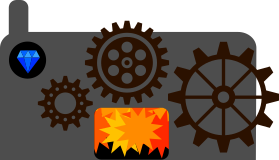
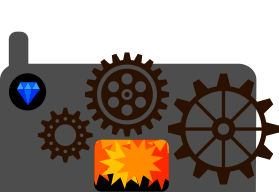
Create blocking spaces and clear soil behind gem bank; Implement entity heirarchy in back-end

diff --git a/back/src/entities/gem_bank.ts b/back/src/entities/gem_bank.ts
@@ -5,12 +5,12 @@ import { FreeModeProperties,
 import { SpatialSystem } from "../spatial_system";
 import { ComponentType } from "../common/component_types";
 import { CSpatial } from "../spatial_component";
-import { DEFAULT_GRID_MODE_PROPS } from "../grid_mode_properties";
+import { DEFAULT_GRID_MODE_PROPS,
+         GridModeProperties } from "../grid_mode_properties";
 import { EntityType } from "../common/game_objects";
 import { CBehaviour, EventHandlerFn } from "../common/behaviour_system";
 import { GameEventType, EAgentEnterCell } from "../common/event";
 import { BLOCK_SZ } from "../common/constants";
-import { SpatialMode } from "../common/spatial_packet";
 import { CCollector } from "../inventory_system";
 
 export function constructGemBank(em: EntityManager, desc: any): EntityId {
@@ -29,30 +29,55 @@ export function constructGemBank(em: EntityManager, desc: any): EntityId {
                                    DEFAULT_GRID_MODE_PROPS,
                                    freeModeProps);
 
-  spatialComp.currentMode = SpatialMode.FREE_MODE;
-
   em.addEntity(id, EntityType.GEM_BANK, desc, [ spatialComp ]);
 
   spatialSys.positionEntity(id, desc.x, desc.y);
 
-  const entranceX = desc.x;
-  const entranceY = desc.y + BLOCK_SZ * 2.5;
-  const exitX = entranceX + BLOCK_SZ * 4;
-  const exitY = entranceY;
-
-  const exitId = constructExit(em, exitX, exitY);
-  const entranceId = constructEntrance(em, exitId, entranceX, entranceY);
-
-  em.addChildToEntity(id, entranceId);
-  em.addChildToEntity(id, exitId);
+  const exitId = constructExit(em, id);
+  constructEntrance(em, id, exitId);
+  constructBlockingSpaces(em, id);
 
   return id;
 }
 
+function constructBlockingSpaces(em: EntityManager, parentId: EntityId) {
+  const coords = [
+    [ 0, 1 ], [ 1, 1 ], [ 2, 1 ], [ 3, 1 ],
+    [ 0, 2 ], [ 1, 2 ], [ 2, 2 ], [ 3, 2 ],
+              [ 1, 3 ], [ 2, 3 ], [ 3, 3 ]
+  ];
+
+  for (const [ i, j ] of coords) {
+    const id = getNextEntityId();
+
+    const gridModeProps: GridModeProperties = {
+      solid: true,
+      blocking: true,
+      heavy: false,
+      movable: false,
+      stackable: false,
+      squashable: false,
+      isAgent: false
+    };
+
+    const spatialSys = <SpatialSystem>em.getSystem(ComponentType.SPATIAL);
+
+    const spatialComp = new CSpatial(id,
+                                     true,
+                                     spatialSys.grid,
+                                     gridModeProps,
+                                     DEFAULT_FREE_MODE_PROPS);
+
+    em.addEntity(id, EntityType.OTHER, {}, [ spatialComp ]);
+    em.addChildToEntity(parentId, id);
+
+    spatialComp.setStaticPos(i * BLOCK_SZ, j * BLOCK_SZ);
+  }
+}
+
 function constructEntrance(em: EntityManager,
-                           exitId: EntityId,
-                           x: number,
-                           y: number) {
+                           parentId: EntityId,
+                           exitId: EntityId) {
   const id = getNextEntityId();
 
   const spatialSys = <SpatialSystem>em.getSystem(ComponentType.SPATIAL);
@@ -70,13 +95,12 @@ function constructEntrance(em: EntityManager,
   const behaviourComp = new CBehaviour(id, targetedEvents);
 
   em.addEntity(id, EntityType.OTHER, {}, [ spatialComp, behaviourComp ]);
+  em.addChildToEntity(parentId, id);
 
-  spatialSys.positionEntity(id, x, y);
-
-  return id;
+  spatialSys.positionEntity(id, 0, BLOCK_SZ * 3);
 }
 
-function constructExit(em: EntityManager, x: number, y: number) {
+function constructExit(em: EntityManager, parentId: EntityId) {
   const id = getNextEntityId();
 
   const spatialSys = <SpatialSystem>em.getSystem(ComponentType.SPATIAL);
@@ -88,8 +112,9 @@ function constructExit(em: EntityManager, x: number, y: number) {
                                    DEFAULT_FREE_MODE_PROPS);
 
   em.addEntity(id, EntityType.OTHER, {}, [ spatialComp ]);
+  em.addChildToEntity(parentId, id);
 
-  spatialSys.positionEntity(id, x, y);
+  spatialSys.positionEntity(id, BLOCK_SZ * 4, BLOCK_SZ * 3);
 
   return id;
 }

diff --git a/back/src/grid_mode_subcomponent.ts b/back/src/grid_mode_subcomponent.ts
@@ -25,7 +25,7 @@ function vectorToDirection(x: number, y: number): Direction {
   throw new GameError(`Vector ${x}, ${y} is not a valid direction`);
 }
 
-export class GridModeSubcomponent implements SpatialSubcomponent {
+export class GridModeSubcomponent extends SpatialSubcomponent {
   falling = false;
 
   private _entityId: EntityId;
@@ -40,12 +40,14 @@ export class GridModeSubcomponent implements SpatialSubcomponent {
   constructor(entityId: EntityId,
               grid: Grid,
               properties: GridModeProperties) {
+    super(entityId);
+
     this._entityId = entityId;
     this._grid = grid;
     this._properties = properties;
   }
 
-  get entityId() {
+  id() {
     return this._entityId;
   }
 
@@ -69,6 +71,7 @@ export class GridModeSubcomponent implements SpatialSubcomponent {
     return now < this._lockedUntil;
   }
 
+  // x and y are absolute
   setGridPos(x: number, y: number, noModeTransition = false): boolean {
     if (this.moving()) {
       return false;
@@ -104,8 +107,10 @@ export class GridModeSubcomponent implements SpatialSubcomponent {
       return false;
     }
 
-    const gridX = this._grid.toGridX(x);
-    const gridY = this._grid.toGridY(y);
+    const [ xAbs, yAbs ] = this._toAbsPos(x, y);
+
+    const gridX = this._grid.toGridX(xAbs);
+    const gridY = this._grid.toGridY(yAbs);
     this.setGridPos(gridX, gridY);
 
     return true;
@@ -180,5 +185,12 @@ export class GridModeSubcomponent implements SpatialSubcomponent {
 
   get isAgent() {
     return this._properties.isAgent;
+  }
+
+  private _toAbsPos(x: number, y: number): [ number, number ] {
+    if (this.parent) {
+      return [ this.parent.x_abs() + x, this.parent.y_abs() + y ];
+    }
+    return [ x, y ];
   }
 }

diff --git a/back/src/spatial_subcomponent.ts b/back/src/spatial_subcomponent.ts
@@ -1,4 +1,52 @@
+import { EntityId } from "./common/system";
+
 export abstract class SpatialSubcomponent {
+  private _id: EntityId;
+  private _parent?: SpatialSubcomponent;
+  private _children = new Map<EntityId, SpatialSubcomponent>();
+
+  constructor(id: EntityId) {
+    this._id = id;
+  }
+
+  get entityId() {
+    return this._id;
+  }
+
+  addChild(child: SpatialSubcomponent) {
+    if (child._parent) {
+      child._parent.removeChild(child.entityId);
+    }
+    this._children.set(child.entityId, child);
+    child._parent = this;
+  }
+
+  removeChild(id: EntityId) {
+    const child = this._children.get(id);
+    if (child) {
+      child._parent = undefined;
+      this._children.delete(id);
+    }
+  }
+
+  get parent() {
+    return this._parent;
+  }
+
+  x_abs(): number {
+    if (this._parent) {
+      return this._parent.x_abs() + this.x();
+    }
+    return this.x();
+  }
+
+  y_abs(): number {
+    if (this._parent) {
+      return this._parent.y_abs() + this.y();
+    }
+    return this.y();
+  }
+
   abstract x(): number;
   abstract y(): number;
   // Set position without changing destination or speed

diff --git a/back/src/map_loader.ts b/back/src/map_loader.ts
@@ -91,6 +91,18 @@ export class MapLoader {
     const numRocks = 20;
     const numGems = 10;
 
+    entities.push({
+      type: EntityType.GEM_BANK,
+      data: {
+        x: BLOCK_SZ * 22,
+        y: BLOCK_SZ * 10
+      }
+    });
+    const gemBankSpan = new Span2d();
+    gemBankSpan.addHorizontalSpan(11, new Span(22, 25));
+    gemBankSpan.addHorizontalSpan(12, new Span(22, 25));
+    gemBankSpan.addHorizontalSpan(13, new Span(22, 26));
+
     const trophyCoords = { x: 5, y: 10 };
 
     let coords: [number, number][] = [];
@@ -103,6 +115,9 @@ export class MapLoader {
           continue;
         }
         if (gr.contains(c, r)) {
+          continue;
+        }
+        if (gemBankSpan.contains(c, r)) {
           continue;
         }
         coords.push([c * BLOCK_SZ, r * BLOCK_SZ]);
@@ -184,14 +199,6 @@ export class MapLoader {
       data: {
         x: trophyCoords.x * BLOCK_SZ,
         y: trophyCoords.y * BLOCK_SZ
-      }
-    });
-
-    entities.push({
-      type: EntityType.GEM_BANK,
-      data: {
-        x: BLOCK_SZ * 22,
-        y: BLOCK_SZ * 10.5
       }
     });
 

diff --git a/common/behaviour_system.ts b/common/behaviour_system.ts
@@ -25,6 +25,10 @@ export class CBehaviour extends Component {
     this._broadcastHandlers = broadcastHandlers;
   }
 
+  addChildToEntity(id: EntityId, childId: EntityId) {}
+
+  removeChildFromEntity(id: EntityId, childId: EntityId) {}
+
   handleBroadcastEvent(event: GameEvent) {
     const handler = this._broadcastHandlers.get(event.type);
     if (!handler) {
@@ -69,6 +73,10 @@ export class BehaviourSystem implements ServerSystem, ClientSystem {
     this._targetedEvents = new Map<GameEventType, Set<EntityId>>();
     this._broadcastEvents = new Map<GameEventType, Set<EntityId>>();
   }
+
+  addChildToEntity(id: EntityId, childId: EntityId) {}
+
+  removeChildFromEntity(id: EntityId, childId: EntityId) {}
 
   updateComponent(packet: ComponentPacket) {}
 

diff --git a/back/src/spatial_system.ts b/back/src/spatial_system.ts
@@ -64,6 +64,21 @@ export class SpatialSystem implements ServerSystem {
     return packets;
   }
 
+  addChildToEntity(id: EntityId, childId: EntityId) {
+    const parent = this.getComponent(id);
+    const child = this.getComponent(childId);
+
+    parent.gridMode.addChild(child.gridMode);
+    parent.freeMode.addChild(child.freeMode);
+  }
+
+  removeChildFromEntity(id: EntityId, childId: EntityId) {
+    const parent = this.getComponent(id);
+
+    parent.gridMode.removeChild(childId);
+    parent.freeMode.removeChild(childId);
+  }
+
   moveAgent(id: EntityId, direction: Direction): boolean {
     const c = this.getComponent(id);
     if (c.currentMode == SpatialMode.GRID_MODE) {

diff --git a/back/src/free_mode_subcomponent.ts b/back/src/free_mode_subcomponent.ts
@@ -11,7 +11,7 @@ function notEqual(a: number, b: number) {
   return Math.abs(a - b) >= 0.1;
 }
 
-export class FreeModeSubcomponent implements SpatialSubcomponent {
+export class FreeModeSubcomponent extends SpatialSubcomponent {
   private _entityId: EntityId;
   private _properties: FreeModeProperties;
   private _body: Body;
@@ -25,6 +25,8 @@ export class FreeModeSubcomponent implements SpatialSubcomponent {
   constructor(entityId: EntityId,
               properties: FreeModeProperties,
               shape?: Shape) {
+    super(entityId);
+
     this._entityId = entityId;
     this._properties = properties;
 

diff --git a/front/src/terrestria/user_input_manager.ts b/front/src/terrestria/user_input_manager.ts
@@ -1,6 +1,7 @@
 import { UserInput } from "./common/action";
 import { EntityType } from "./common/game_objects";
-import { CSprite, StaticImage, RenderOptions, RenderSystem } from "./render_system";
+import { CSprite, StaticImage, RenderOptions,
+         RenderSystem } from "./render_system";
 import { EntityManager, getNextEntityId } from "./entity_manager";
 import { EntityId } from "./common/system";
 import { CBehaviour, EventHandlerFn } from "./common/behaviour_system";

diff --git a/front/src/terrestria/spatial_system.ts b/front/src/terrestria/spatial_system.ts
@@ -20,6 +20,10 @@ export class SpatialSystem implements ClientSystem {
     this._frameRate = frameRate;
   }
 
+  // Implement these similarly to on back-end
+  addChildToEntity(id: EntityId, childId: EntityId) {}
+  removeChildFromEntity(id: EntityId, childId: EntityId) {}
+
   updateComponent(packet: SpatialPacket) {
     const c = this.getComponent(packet.entityId);
     if (packet.mode == SpatialMode.GRID_MODE) {

diff --git a/common/entity_manager.ts b/common/entity_manager.ts
@@ -53,6 +53,12 @@ export class IEntityManager {
     parent.children.add(childId);
     child.parent = id;
 
+    this.systems.forEach(system => {
+      if (system.hasComponent(id) && system.hasComponent(childId)) {
+        system.addChildToEntity(id, childId);
+      }
+    });
+
     const event: EEntityHierarchyChanged = {
       type: GameEventType.ENTITY_HIERARCHY_CHANGED,
       parent: id,

diff --git a/back/src/agent_system.ts b/back/src/agent_system.ts
@@ -38,6 +38,10 @@ export class AgentSystem implements ServerSystem {
     this._pinata = pinata;
   }
 
+  addChildToEntity(id: EntityId, childId: EntityId) {}
+
+  removeChildFromEntity(id: EntityId, childId: EntityId) {}
+
   async grantAward(entityId: EntityId,
                    name: string): Promise<CreateAwardResponse|null> {
     const c = this.getComponent(entityId);

diff --git a/front/src/terrestria/advert_system.ts b/front/src/terrestria/advert_system.ts
@@ -28,6 +28,10 @@ export class AdvertSystem implements ClientSystem {
     this._components = new Map<number, CAdvert>();
   }
 
+  addChildToEntity(id: EntityId, childId: EntityId) {}
+
+  removeChildFromEntity(id: EntityId, childId: EntityId) {}
+
   addPlaceholder(adName: string, imageName: string) {
     this._placeholders.set(adName, imageName);
   }
